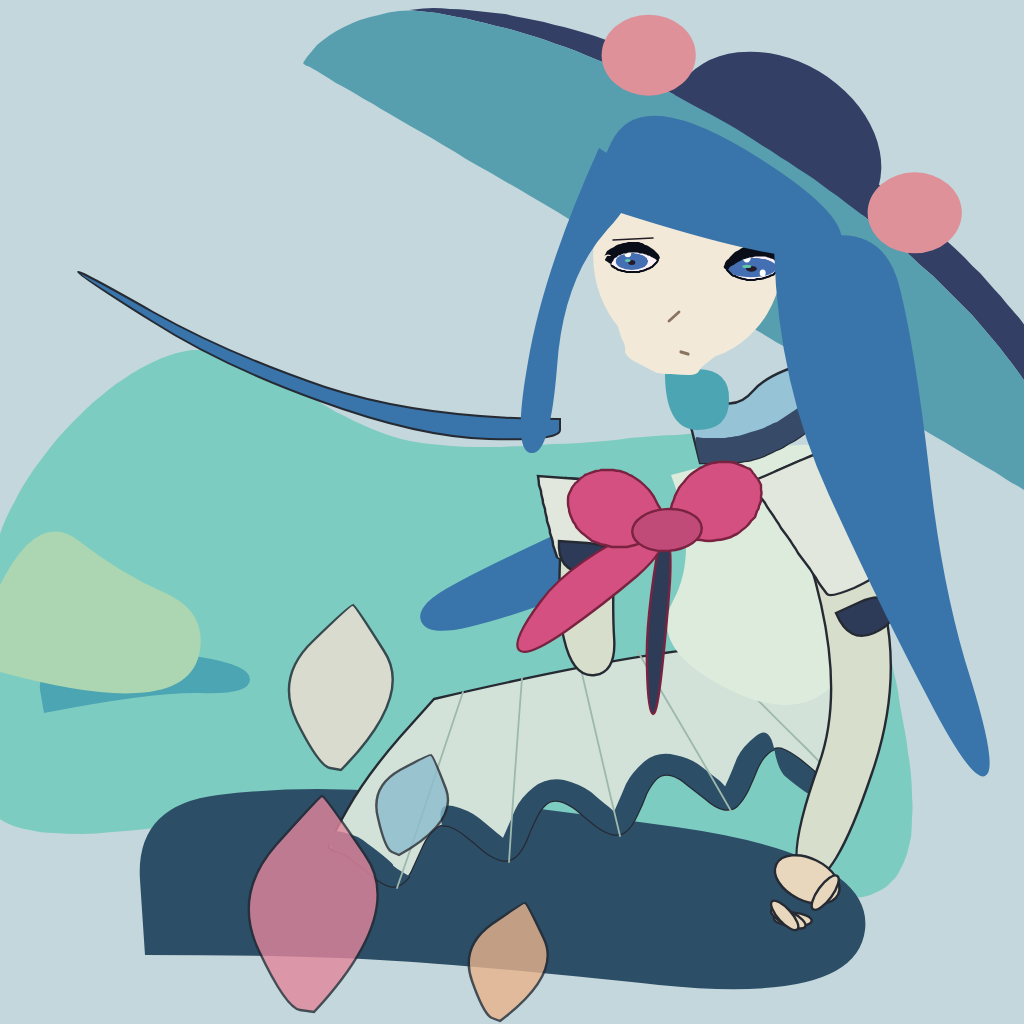
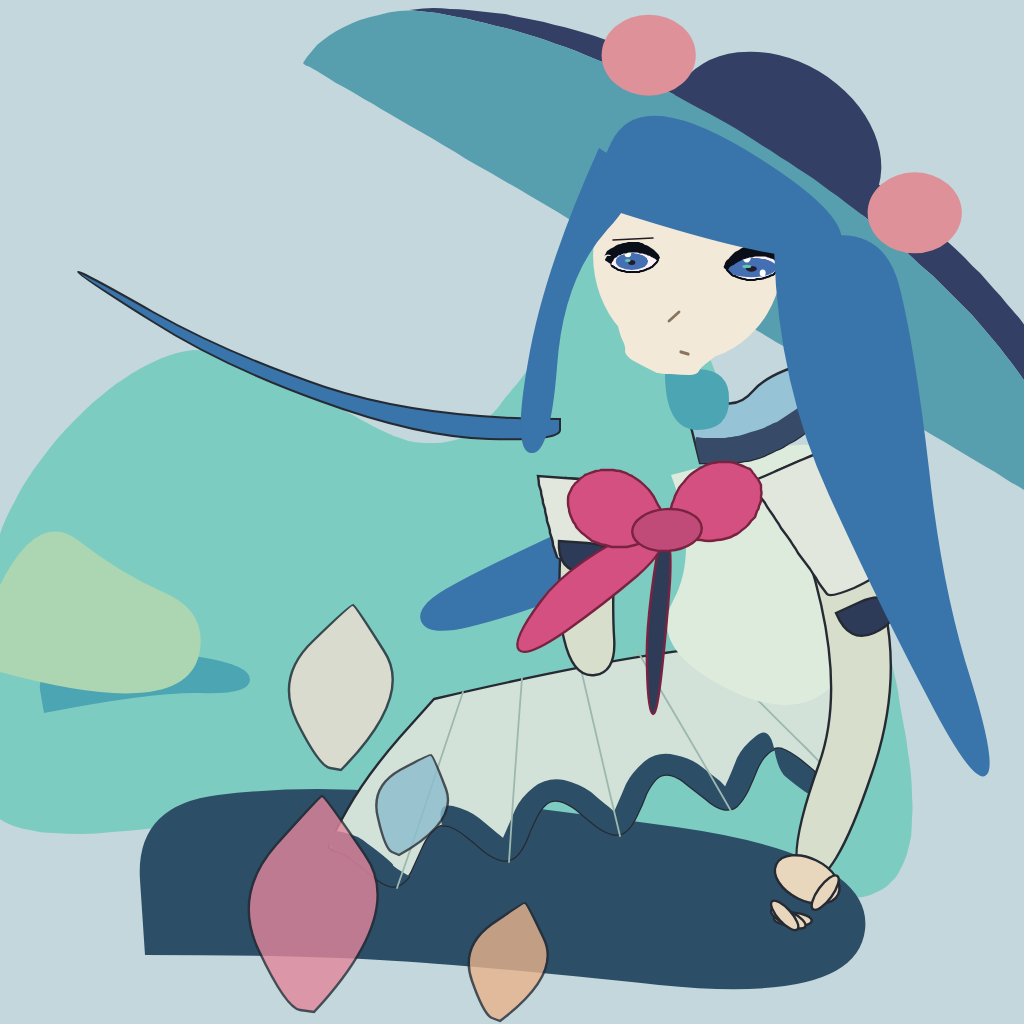
M4f addendum: mint top edge raised to the blue hair (ref gap 2-8px matched, was 110-205px) — G2 closes with margin (coverage 0.582), CLIP 0.8989 new high

Changed region(s): [[0.4375, 0.25, 0.6875, 0.4375], [0.3438, 0.4062, 0.375, 0.4375], [0.3125, 0.375, 0.3438, 0.4062]]

diff --git a/.scratch/13-assembly/log.md b/.scratch/13-assembly/log.md
@@ -1595,3 +1595,19 @@ partition is invisible from outside** — an interior boundary the eye never cro
 the viewer these are one object. M4g: the boundary must INTERSECT the outer contour (blue→line→
 mint visible along the sweep), per both reviewers' prescriptions ("extend the mint's right edge
 up behind the left side of the blue hair just below the brim").
+
+### M4f addendum (same session) — the boundary REACHES the silhouette; G2 closes with margin
+
+Parent measurement after M4f's review found the precise defect: reference blue→mint vertical gap
+at x560–640 is 2–8px (an ink line); the draft's was 110–205px of BACKGROUND — the mint's top edge
+sagged ~150–200px below the blue hair's bottom edge. Surgical fix: hair-region spline anchors
+x520–660 raised ([520,380],[600,232],[660,242]) so the mint tucks up behind the head; x680+ crest
+stays exposed (ref gap there is 141px — by design). Verified: x560 gap now **2px (= reference)**;
+x600–640 the face covers the boundary (correct layering); x680 exposed as in the reference.
+
+Metrics after the fix: **coverage 0.582 (+0.011 above floor — G2 closed with margin)**,
+color_dist 59.4 (beats floor), CLIP **0.8989 — new project high**, self-check 15/15 re-run PASS.
+Parent's visual read: the mint now visibly continues behind the head from the blue at the face's
+left edge; the "floating blanket" read should be substantially weakened. Remaining known defects
+(queued M4g): the thin blue strand still reads wire-like; ribbon still diamond-blocks; scattered
+petal chips; left arm.
